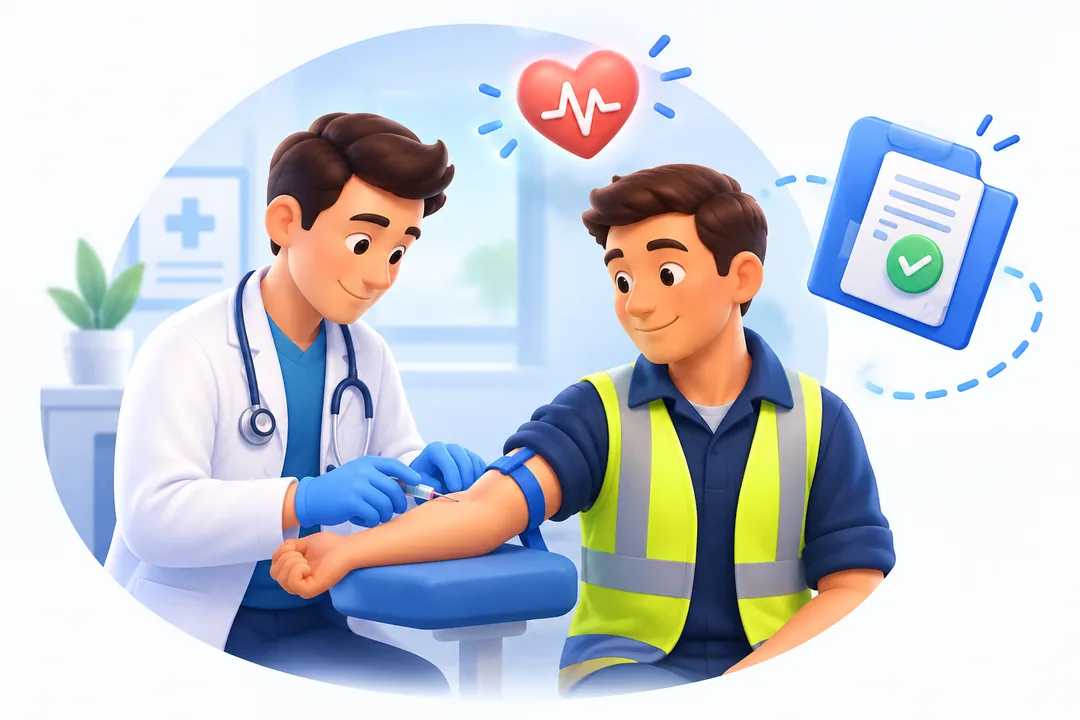
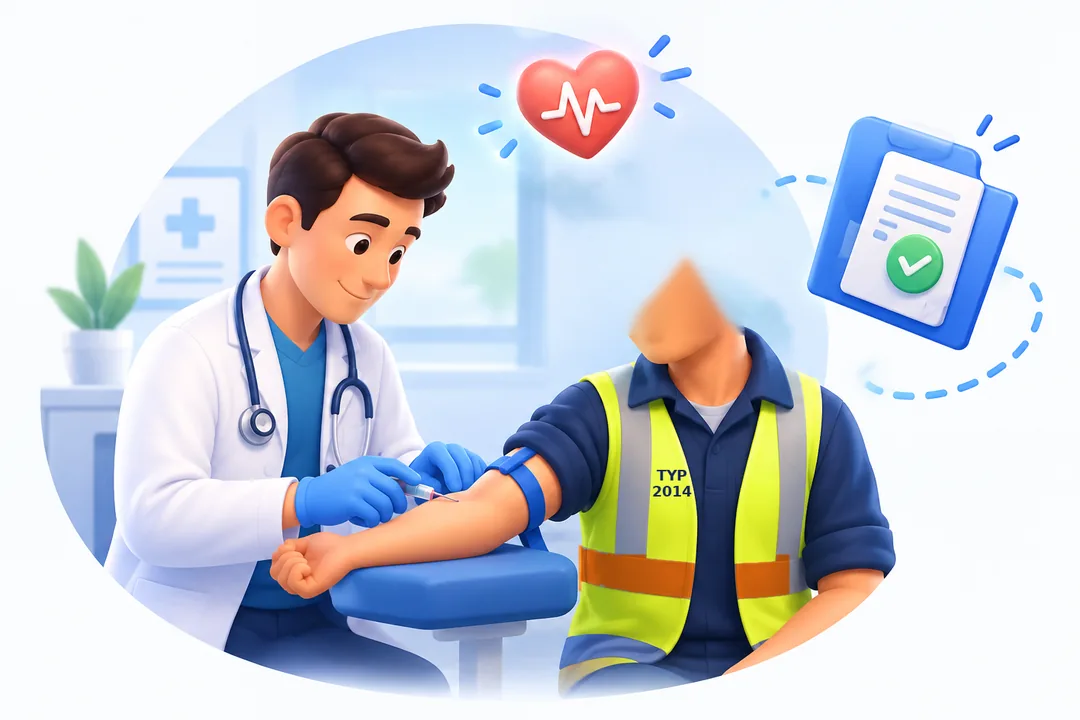
Add files via upload

diff --git a/index.html b/index.html
@@ -1,6 +1,7 @@
 <!DOCTYPE html>
 <html lang="es">
 <head>
+<!-- v681 (21/09/2026): RECONOCIMIENTOS MEDICOS - LA ESCENA SE MUEVE CADA 5 s, EL TRABAJADOR DICE "NO, NO" Y CHALECO CON FRANJA NARANJA + TYP2014 (solo aspecto). Validada la v680 (subida y comprobada en GitHub). JC: "que en vez de cada ocho segundos sea cinco", "que el trabajador mueva la cabeza como diciendo no no no, que no me pinche, como una broma", "el chaleco amarillo, que sea naranja solo la franja de la cintura, no la otra" y "que ponga TYP2014 en el pecho". AHORA: (1) ciclo de 5 s; (2) capa nueva .recCab con la cabeza recortada (fichero NUEVO recmed_cabeza.webp, con transparencia, 10 KB) que gira ±5 grados desde el cuello al principio de cada ciclo; detras, en recmed_escena.webp, el hueco esta rellenado para que no se vea una segunda cabeza; quitada la respiracion del fondo; (3) en recmed_escena.webp la franja reflectante HORIZONTAL de la cintura pasa de gris a naranja (las verticales siguen grises) y "TYP / 2014" en azul marino en el panel amarillo del pecho. Orden: cabeza al principio, luego corazon, luego carpeta y punto verde. NO cambia nada de como funciona la caja, ni tablas, ni BD. app.js NO cambia (solo su cache a ?v=681). Sube index.html + styles.css + recmed_escena.webp (REEMPLAZA) + recmed_cabeza.webp (NUEVO). styles.css?v=58. -->
 <!-- v680 (21/09/2026): RECONOCIMIENTOS MEDICOS - ILUSTRACION ANIMADA EN LA CAJA DE ARRASTRAR LA CARTA (solo aspecto). JC trajo de ChatGPT una ilustracion 3D (medico sacando sangre a un trabajador con chaleco + corazon + carpeta con visto bueno) con su animacion, y pidio ponerla "como esta el otro muñeco, ahi en medio" (como la escena de SUBIR ALBARANES de la v625). AHORA: en la caja #dzRecmed el icono SVG dibujado (bata) se sustituye por la escena .recFoto (max 420 px, centrada, esquinas redondas). Fichero NUEVO recmed_escena.webp (1080x720, 49 KB; el PNG original pesaba 1,6 MB y se le han recortado los margenes blancos). Tecnica: la MISMA imagen en 3 capas (fondo + corazon con mascara ovalada difuminada, para que no se note el recorte sobre el ovalo azul ni pise el pelo del trabajador + carpeta con clip-path) y cada ~8 s: respiracion minima de la escena, DOBLE latido del corazon, la carpeta crece un pelin y se ladea (al CRECER tapa la copia de debajo: en el original de ChatGPT subia 8 px y se veia doble), y parpadea un punto verde. Quitado de lo de ChatGPT: brillos en pixeles fijos (se descolocaban en movil) y el script.js (no hacia nada). Respeta prefers-reduced-motion. NO cambia nada de como funciona la caja (arrastrar/clic, IA, citas, avisos, WhatsApp), ni las tablas, ni la BD. app.js NO cambia (solo sube su cache a ?v=680). Sube index.html + styles.css + recmed_escena.webp. styles.css?v=57. -->
 <!-- v679 (21/09/2026): PRIMAS - REGLAS DE OLESA. Validada la v678. JC, con captura del JUE 17/09 (6285LMG, "3 OLESA + 1 LLINARS → 20 €") y respuestas: (1) "3 Olesa → Montcada + 1 Llinars → Montcada = 25 €, DESDE AHORA (antes pagabamos 20)": se mantiene la regla de 20 y se añade [25, {OLESA:3, LLINARS:1}, '2026-09-01']; las reglas pueden llevar ahora FECHA DE INICIO (tercer dato) y el motor recibe el dia (_primasPropone(cuenta, vehiculo, iso)): antes del 01/09/2026 sigue proponiendo 20 (lo que se pago), desde septiembre 25. Asi, si alguien vuelve a pulsar "Traer viajes" en julio o agosto, NO le cambia lo ya pagado. (Queda descartada la regla provisional 3 Olesa + 2 Llinars de la primera version de la v679, que nunca llego a subirse.) (2) "Olesa → Zona Franca II, 5 viajes = 20 €": nueva clase OLESA ZF (origen Olesa + destino Zona Franca), que antes caia en ZONA FRANCA normal y no encajaba en ninguna regla; regla [20, {OLESA ZF:5}]. En los albaranes jul-sep es un dia habitual (17 dias con 5, 9 con 4). (3) EN LA MISMA VERSION, JC: "7 de Zona Franca solo son 20; 30 es uno de caliza y los 7: tiene que hacer antes un rechazo, que es un viaje de caliza de Garraf normalmente o de Promsa": la regla [30, {ZONA FRANCA:7}] (que daba 30 a 7 ZF solos) pasa a [30, {ZONA FRANCA:7, LARGO:1}] y se añade [20, {ZONA FRANCA:7}]. Consecuencia: si el albaran del rechazo no esta subido, la app propone 20 y no 30 (en jul-ago hubo 2 dias asi, pagados a 30) → la falta de ese albaran se ve (y el comparador avisa si el conductor dice 8 viajes). (4) Y JC, pensandolo mejor: "a uno de caliza y seis de Zona Franca ponle 25, porque es un poco mas largo un viaje de Garraf a Montcada que de Garraf a Zona Franca": [25, {ZONA FRANCA:6, LARGO:1}, '2026-09-01'] (antes del 01/09 sigue en 20, lo pagado). 6 Zona Franca SOLOS, sin caliza: sin regla (a mano), JC no le ha dado importe. Comprobado contra lo pagado jul-ago que el acierto no empeora. NO requiere SQL. node --check OK. cache app.js?v=679. VUELTA ATRAS: resubir la v678. -->
 <!-- v678 (21/09/2026): PRIMAS > PARTE DIARIO - EL AVISO LARGO YA NO ENSANCHA LA TABLA (solo aspecto). Validada la FUNCION de la v677 con captura de JC (Cristian 01 y 02/09: "⚠ Pone VACACIONES, pero su camion tiene 2 albaranes..." en naranja, sin prima propuesta). PERO en esa misma captura se vio un fallo de aspecto MIO: el aviso, al ser tan largo y no partirse en lineas (la hoja de estilos pone nowrap en las celdas), ensanchaba toda la tabla: la columna VEHICULO se encogia ("4210N" cortado) y PRIMA se salia por la derecha. AHORA: la linea de desglose/avisos bajo TRABAJO REALIZADO se parte siempre en varias lineas (white-space:normal), el aviso de vacaciones es mas corto ("...lo llevo OTRO conductor. Borra este trabajo y apuntalo en el parte de quien lo llevo.") y la columna VEHICULO tiene ancho minimo fijo (200 px: caben dos matriculas "9499LHT + 4839NBF"). (2) EN LA MISMA VERSION, JC: "lo que nos dice el conductor es muy importante que tenga un espacio no tan pequeño... un poco mas pequeño que el definitivo, pero no tan tan pequeño; y la matricula no se acaba de ver": la columna LO QUE DICE EL CONDUCTOR pasa de estrecha (~200 px) a un TERCIO de la tabla (33 %, minimo 300 px), casi tan ancha como TRABAJO REALIZADO (40 %); y las dos cajas de texto CRECEN SOLAS en alto para enseñar el mensaje entero (antes el WhatsApp largo quedaba escondido en una linea). Ningun calculo cambia. NO requiere SQL. node --check OK. cache app.js?v=678. VUELTA ATRAS: resubir la v677. -->
@@ -471,7 +472,7 @@ if (typeof pdfjsLib !== 'undefined') {
 <!-- v107K77 (22/06/2026): LEGIBILIDAD — el gris de textos secundarios (--mu) era demasiado oscuro y casi no se leía (ayudas, etiquetas, "Rellenar fecha rápido"...). Aclarado de #527060 a #7d9e8b en styles.css; afecta a toda la app. Reversible. Sube styles.css + index.html (app.js NO cambia). NO requiere SQL. -->
 <!-- v107K84 (23/06/2026): PARPADEO DE LA ZONA DE SOLTAR — CAUSA RAÍZ ENCONTRADA Y ARREGLADA (en el CSS, no en el JS). La zona tiene encima una capa invisible (el input de "clic para seleccionar"). Una regla apagaba esa capa justo al iluminarse la zona, lo que cambiaba el elemento bajo el cursor y hacía oscilar la iluminación → parpadeo continuo. Quitada esa regla (.dz.ov input{pointer-events:none}) en styles.css: ahora la capa se mantiene fija durante el arrastre y NO parpadea. El drop sigue bien (drop() hace preventDefault). Sube styles.css + index.html (app.js NO cambia, sigue v=177). NO requiere SQL. -->
 <!-- v304 (14/07/2026): RECAMBIOS — la IA lee ahora TAMBIÉN NUESTRO CIF (paso 1 del plan "facturas de recambios por email"). Hasta ahora la empresa de un documento de recambios NO se leía del papel: se cogía de la sub-pestaña donde se arrastra (tallerEmpresaActiva). Esto añade un campo nuevo al prompt de callClaudeRecambio ("cif_cliente" = el CIF del destinatario, NOSOTROS; distinto de proveedor_nif, que es el del emisor) y, al subir, COMPARA ese CIF con la sub-pestaña: si el CIF es de otra empresa del grupo avisa por toast y deja nota en Observaciones ("⚠ REVISAR EMPRESA: el CIF de este documento (B90172735) es de TYP2014, pero se ha subido en la pestaña de HISPALIS"); si el CIF no se pudo leer o no es de ninguna de nuestras 4 empresas, deja una nota informativa. NO cambia la empresa por su cuenta (decide Juan Carlos), NO toca la conciliación, NO toca ninguna otra pestaña. Sirve desde el día 1 para cazar facturas subidas en la empresa equivocada, y a la vez comprueba en producción si la IA lee bien el CIF en todos los proveedores — que es el requisito para poder automatizar luego la entrada por correo. Sube app.js + index.html. NO requiere SQL (la nota va en la columna observaciones, que ya existe). node --check OK. cache app.js?v=304. -->
-<link rel="stylesheet" href="styles.css?v=57">
+<link rel="stylesheet" href="styles.css?v=58">
 <!-- v302 (13/07/2026): CONFIRMING BBVA — 2 mejoras del aviso. (1) Al marcar una factura cobrada por confirming, rellena sola el campo OBSERVACIONES con "Confirming BBVA · Liquidación <cesión> · cobrado DD/MM/AAAA" (si ya había una nota, la conserva y añade la del confirming detrás; no pisa nada). (2) El aviso verde (y el ámbar de duplicado) ahora tiene un botón "✓ Visto, cerrar" que lo quita de pantalla cuando ya lo has leído (mini-función _liqCerrar). Solo toca la función de confirming; nada más cambia. Sube app.js + index.html. NO requiere SQL. cache app.js?v=302. -->
 <!-- v301 (13/07/2026): FACTURAS EMITIDAS — COBROS POR CONFIRMING BBVA. Nueva zona verde para ARRASTRAR el justificante de liquidación de BBVA (factoring). La IA lee la tabla "Detalle de los créditos" y marca COBRADAS SOLAS las facturas que casan por NÚMERO + IMPORTE (doble comprobación); fecha de cobro = fecha de liquidación (NO la "fecha pago" del deudor), forma_cobro = "Confirming BBVA". Las que NO casan (no encontrada / importe no cuadra / ambiguas) NO se tocan y se listan en rojo para revisar a mano. Candado anti-duplicados por Nº de cesión (tabla liquidaciones_confirming): si llega la misma liquidación 2 veces, no vuelve a marcar. Casa por CIF+número, así vale igual para CEMEX, Holcim o cualquier deudor por este confirming. NO toca la subida de facturas normal ni nada más. Sube app.js + index.html. REQUIERE SQL previo (columna facturas_emitidas.forma_cobro + tabla liquidaciones_confirming, ya ejecutado). cache app.js?v=301. -->
 <!-- v300 (13/07/2026): RECAMBIOS (Taller) — separación de ~5 cm entre el botón "➕ Subir albarán" (azul) y "🧾 Subir factura" (gris) para no confundirlos con las prisas (margin-left:5cm en el botón de factura). Solo espaciado; no toca nada más. Sube solo index.html (app.js NO cambia, pero al subir el ?v=300 conviene subir también app.js para que el cache-buster cuadre). NO requiere SQL. cache app.js?v=300. -->
@@ -2186,7 +2187,7 @@ if (typeof pdfjsLib !== 'undefined') {
             <!-- v443: arrastra la carta de la mutua y la IA crea las citas -->
             <div class="dz" id="dzRecmed" style="padding:16px;margin-bottom:12px" ondragenter="dragEnter(event)" ondragover="ev(event)" ondragleave="el(event)" ondrop="recmedDrop(event)">
               <input type="file" accept=".pdf,image/*" multiple onchange="recmedAddFiles(this.files);this.value=''">
-              <div class="recFoto" aria-hidden="true"><div class="recArt recBase"></div><div class="recArt recCor"></div><div class="recArt recCarp"></div><div class="recPunto"></div></div>
+              <div class="recFoto" aria-hidden="true"><div class="recArt recBase"></div><div class="recArt recCor"></div><div class="recArt recCarp"></div><div class="recArt recCab"></div><div class="recPunto"></div></div>
               <div class="dz-t">Arrastra la carta de la mutua (PDF o foto) · o <span class="hl">haz clic para seleccionar</span></div>
               <div class="dz-s">La IA lee la empresa, el día y CADA trabajador (una carta con 2 trabajadores crea 2 citas con el mismo documento) · el botón ➕ sigue para apuntarla a mano</div>
             </div>
@@ -2962,6 +2963,6 @@ if (typeof pdfjsLib !== 'undefined') {
 <!-- v514 (Juan Carlos 11/08/2026): LOS REPASOS GUARDADOS DABAN "Cannot read properties of undefined (reading 'length') AL PULSAR VER O EXCEL. Culpa de la v512: por ahorrar sitio deje fuera de lo guardado los campos que venian vacios (difs, modo, y linea/rec cuando no habia). Pero el informe hace "a.difs.length" y el Excel hace "a.linea.tn" DANDO POR HECHO que existen, asi que al abrir un repaso guardado reventaba y los botones no hacian nada. Un objeto vacio ocupa 2 bytes: no se ahorraba nada y se rompia todo. Desde la v514 lo guardado tiene SIEMPRE la misma forma que lo recien cruzado (difs siempre array, modo siempre texto, linea y rec siempre objeto). IMPORTANTE: los repasos guardados con la v512/v513 se quedaron mal por dentro; hay que volver a cruzar el mes una vez para que se guarde bien. Solo app.js + index.html. NO requiere SQL. -->
 <!-- v515 (Juan Carlos 11/08/2026): TODAS LAS FAMILIAS A LA VISTA. Las pastillas de familia iban en una fila de tabla y salia barra de desplazamiento horizontal: habia que arrastrar para ver las ultimas. Ahora cada repaso es un bloque y las pastillas se reparten en varias lineas, todas visibles de golpe; los botones VER / EXCEL COMPLETO / X tambien bajan de linea si no caben. Va junto con el arreglo de la v514 (que no llego a subirse): los repasos guardados reventaban con "Cannot read properties of undefined (reading length)" porque la v512 dejaba fuera los campos vacios y el Excel hace a.difs.length dando por hecho que existen (traza confirmada por JC: factHolcimExcelPorMaterial linea 25582). Solo app.js + index.html. NO requiere SQL. IMPORTANTE: el repaso guardado con la v512/v513 esta mal por dentro; hay que quitarlo con la X y volver a cruzar el mes una vez. -->
 <!-- v516 (Juan Carlos 11/08/2026): REPARAR AL VUELO LOS REPASOS YA GUARDADOS. La v514/v515 arreglaron como se GUARDA, pero el repaso que JC ya tenia grabado con la v512 seguia mal por dentro y seguia reventando al pulsar EXCEL: solo salia bien "Nucleo Garraf -> Puerto Barcelona", la unica familia sin abonados y por eso la unica que nunca llegaba a la linea que peta (a.difs.length). Obligar a borrarlo con la X y volver a cruzar el mes entero es un apano, no un arreglo. Ahora, al abrir o exportar, lo guardado se REPARA en memoria antes de usarse: se le devuelve la forma que espera el informe (difs array, modo texto, linea y rec objeto). Funcionan igual los repasos nuevos y los viejos, sin que el usuario tenga que hacer nada. Solo app.js + index.html. NO requiere SQL. -->
-<script src="app.js?v=680"></script>
+<script src="app.js?v=681"></script>
 </body>
 </html>

diff --git a/styles.css b/styles.css
@@ -657,15 +657,17 @@ tbody tr.row-warn:hover{background:rgba(245,166,35,.22)}
 #cardSubirAlb .dz-t{margin-bottom:1px}
 #cardSubirAlb .dz-s{font-size:10px}
 
-/* v680: escena animada de RECONOCIMIENTOS MEDICOS en la caja #dzRecmed (ilustracion de JC hecha en ChatGPT). Misma imagen en 3 capas: fondo + corazon (mascara ovalada con borde difuminado, para que no se vea el recorte sobre el azul) + carpeta (clip-path). Ciclo de 8 s, casi todo el rato quieta. */
+/* v680: escena animada de RECONOCIMIENTOS MEDICOS en la caja #dzRecmed (ilustracion de JC hecha en ChatGPT). Misma imagen en capas: fondo + corazon (mascara ovalada con borde difuminado, para que no se vea el recorte sobre el azul) + carpeta (clip-path).
+   v681: ciclo de 8 s -> 5 s; nueva capa .recCab = la CABEZA del trabajador recortada (recmed_cabeza.webp, con transparencia; en recmed_escena.webp el hueco de detras esta rellenado) que dice "no, no, no" al principio de cada ciclo, como de broma porque le van a pinchar. Quitada la "respiracion" del fondo (desplazaba el fondo respecto a la cabeza). Chaleco: franja de la cintura naranja y TYP2014 en el pecho (pintado en la imagen). */
 .recFoto{position:relative;width:100%;max-width:420px;aspect-ratio:3/2;margin:0 auto 12px;border-radius:14px;overflow:hidden;isolation:isolate;background:#fafcfe;box-shadow:0 6px 16px rgba(30,41,51,.14)}
-.recArt{position:absolute;inset:0;background:url('recmed_escena.webp?v680') center/cover no-repeat}
-.recBase{z-index:1;transform-origin:50% 55%;animation:recRespira 8s ease-in-out infinite}
-.recCor{z-index:3;-webkit-mask-image:radial-gradient(ellipse 9.5% 11.5% at 52.9% 13.6%,#000 62%,transparent 100%);mask-image:radial-gradient(ellipse 9.5% 11.5% at 52.9% 13.6%,#000 62%,transparent 100%);transform-origin:52.9% 14.2%;animation:recLate 8s ease-in-out infinite}
-.recCarp{z-index:4;clip-path:inset(10.9% 3.7% 50% 73.5%);transform-origin:85.5% 31.6%;animation:recCarpeta 8s ease-in-out infinite}
-.recPunto{position:absolute;z-index:5;right:4%;bottom:6%;width:9px;height:9px;border-radius:50%;background:#37c979;animation:recPunto 8s ease-in-out infinite}
-@keyframes recRespira{0%,36%,100%{transform:scale(1)}43%{transform:scale(1.006)}50%{transform:scale(1)}}
-@keyframes recLate{0%,30%,100%{transform:scale(1)}33%{transform:scale(1.09)}36%{transform:scale(1)}39%{transform:scale(1.07)}43%{transform:scale(1)}}
-@keyframes recCarpeta{0%,42%,100%{transform:scale(1) rotate(0)}47%{transform:scale(1.06) rotate(-2deg)}52%{transform:scale(1.04) rotate(1.5deg)}58%{transform:scale(1) rotate(0)}}
-@keyframes recPunto{0%,35%,100%{box-shadow:0 0 0 0 rgba(55,201,121,0)}42%{box-shadow:0 0 0 8px rgba(55,201,121,.18)}49%{box-shadow:0 0 0 0 rgba(55,201,121,0)}}
+.recArt{position:absolute;inset:0;background:url('recmed_escena.webp?v681') center/cover no-repeat}
+.recBase{z-index:1}
+.recCor{z-index:3;-webkit-mask-image:radial-gradient(ellipse 9.5% 11.5% at 52.9% 13.6%,#000 62%,transparent 100%);mask-image:radial-gradient(ellipse 9.5% 11.5% at 52.9% 13.6%,#000 62%,transparent 100%);transform-origin:52.9% 14.2%;animation:recLate 5s ease-in-out infinite}
+.recCarp{z-index:4;clip-path:inset(10.9% 3.7% 50% 73.5%);transform-origin:85.5% 31.6%;animation:recCarpeta 5s ease-in-out infinite}
+.recCab{z-index:5;background-image:url('recmed_cabeza.webp?v681');transform-origin:63.8% 48.2%;animation:recNo 5s ease-in-out infinite}
+.recPunto{position:absolute;z-index:6;right:4%;bottom:6%;width:9px;height:9px;border-radius:50%;background:#37c979;animation:recPunto 5s ease-in-out infinite}
+@keyframes recNo{0%,6%,30%,100%{transform:rotate(0)}10%{transform:rotate(-5deg)}14%{transform:rotate(5deg)}18%{transform:rotate(-5deg)}22%{transform:rotate(4deg)}26%{transform:rotate(-2deg)}}
+@keyframes recLate{0%,36%,100%{transform:scale(1)}39%{transform:scale(1.09)}42%{transform:scale(1)}45%{transform:scale(1.07)}49%{transform:scale(1)}}
+@keyframes recCarpeta{0%,50%,100%{transform:scale(1) rotate(0)}55%{transform:scale(1.06) rotate(-2deg)}60%{transform:scale(1.04) rotate(1.5deg)}66%{transform:scale(1) rotate(0)}}
+@keyframes recPunto{0%,44%,100%{box-shadow:0 0 0 0 rgba(55,201,121,0)}51%{box-shadow:0 0 0 8px rgba(55,201,121,.18)}58%{box-shadow:0 0 0 0 rgba(55,201,121,0)}}
 @media (prefers-reduced-motion:reduce){.recArt,.recPunto{animation:none}}
